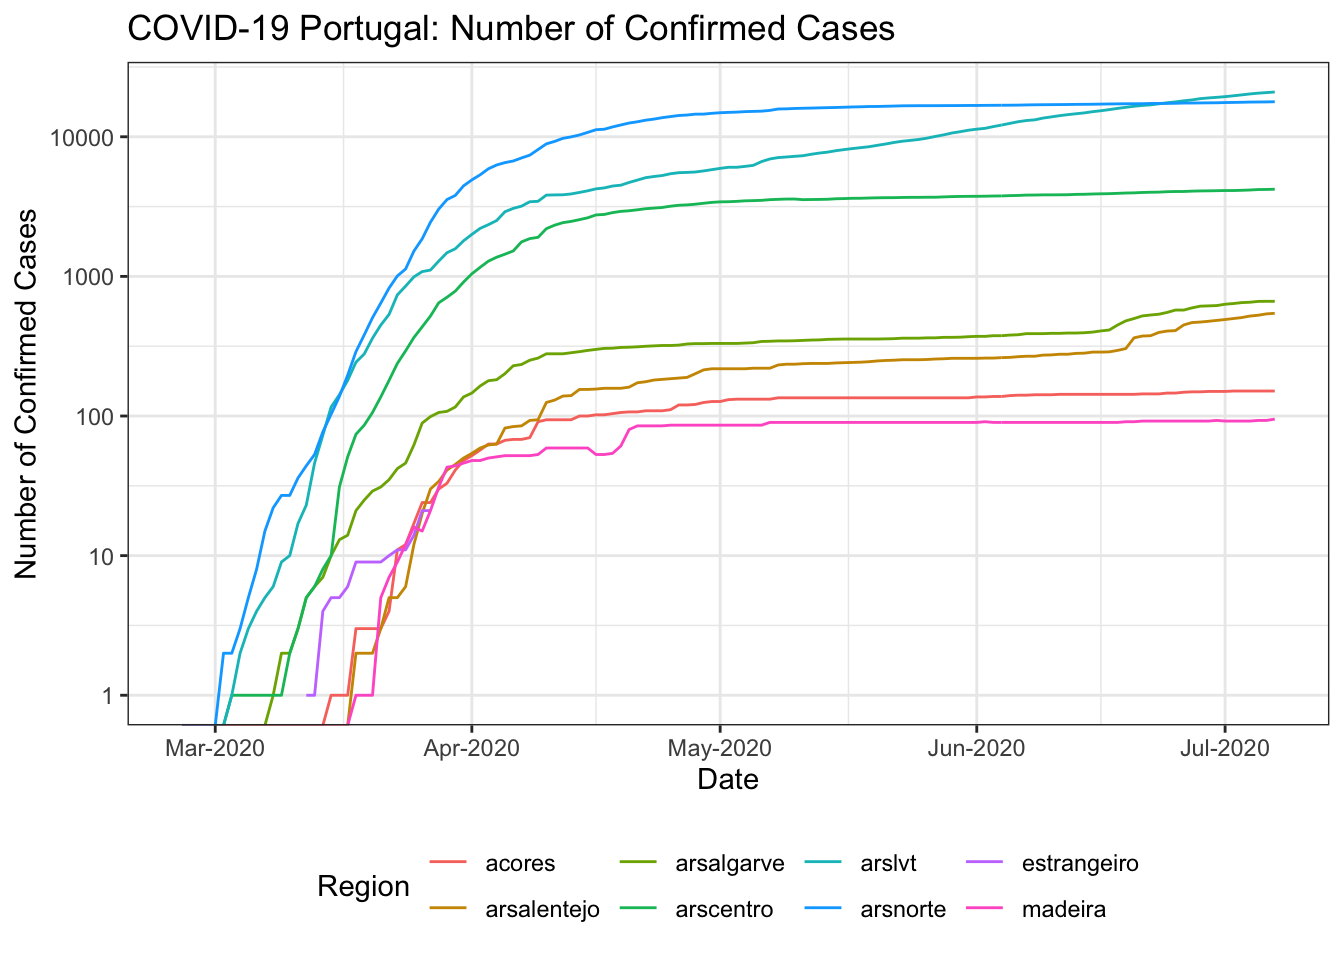
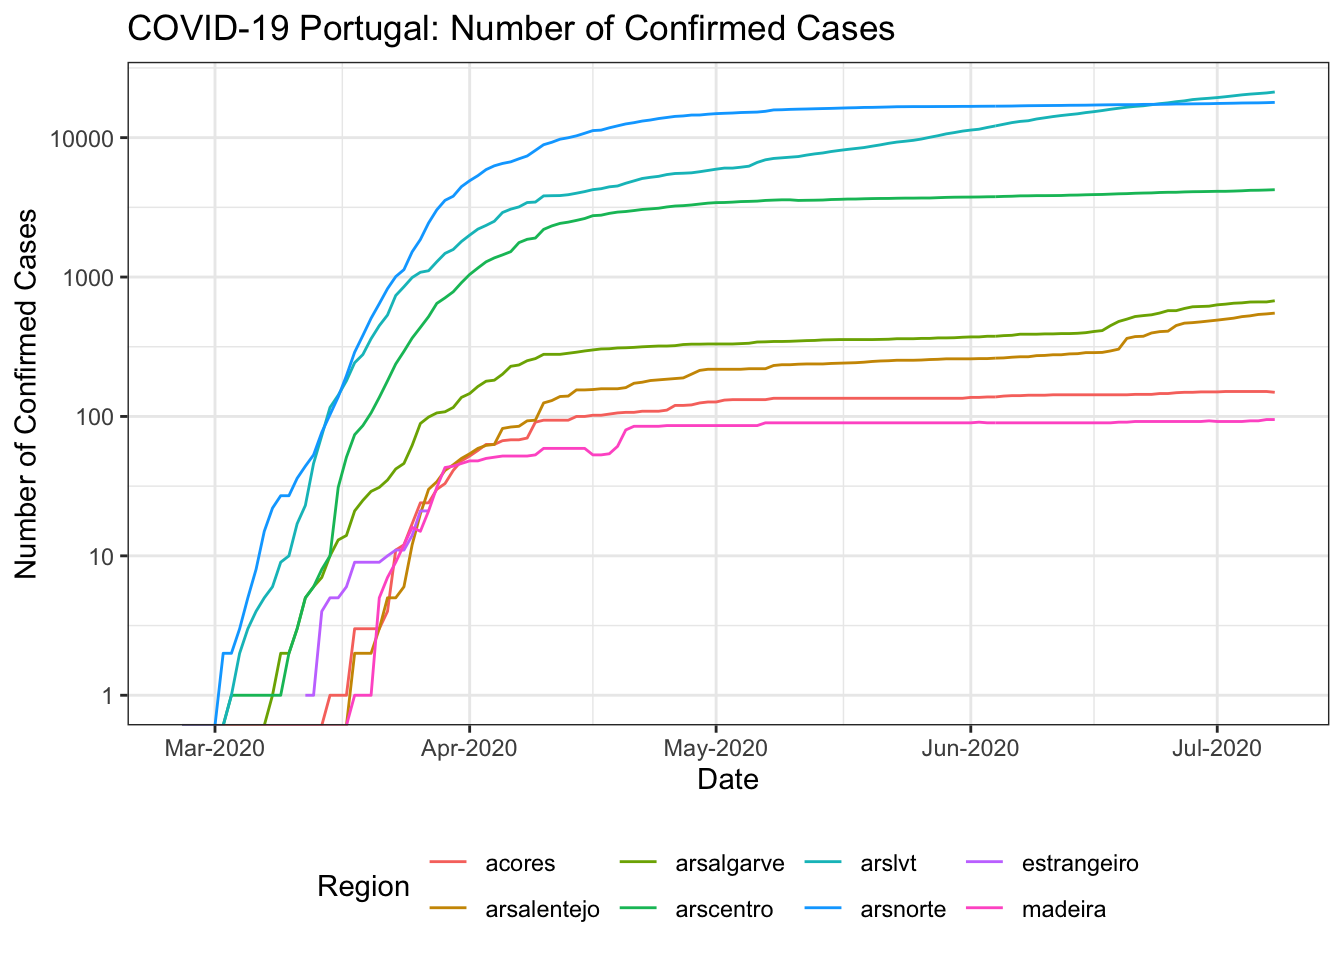
Data Update & Re-build README.Rmd

diff --git a/README.md b/README.md
@@ -1,9 +1,9 @@
 
 ## Daily Portuguese COVID-19 Data
 
-**Last updated: Wed 08 Jul 2020 (15:25:04 UTC \[+0000\])**
+**Last updated: Thu 09 Jul 2020 (03:26:10 UTC \[+0000\])**
 
-  - Data available from **26 Feb 2020** until **07 Jul 2020** (133
+  - Data available from **26 Feb 2020** until **08 Jul 2020** (134
     days).
 
 ### Download User Friendly Version
@@ -48,7 +48,7 @@ suppressPackageStartupMessages(library(here)) # library(here)
 # Read in data as a data.frame and data.table object.
 CV <- fread(here("data", "covid19pt_DSSG_Long.csv"))
 str(CV)
-## Classes 'data.table' and 'data.frame':   11172 obs. of  12 variables:
+## Classes 'data.table' and 'data.frame':   11256 obs. of  12 variables:
 ##  $ data       : chr  "2020-02-26" "2020-02-27" "2020-02-28" "2020-02-29" ...
 ##  $ origVars   : chr  "cadeias_transmissao" "cadeias_transmissao" "cadeias_transmissao" "cadeias_transmissao" ...
 ##  $ origType   : chr  "cadeias" "cadeias" "cadeias" "cadeias" ...
@@ -111,7 +111,7 @@ CV[origType=="confirmados" & ageGrp=="" & region!="Portugal"] %>%
     y = "Number of Confirmed Cases",
     colour = "Region")
 ## Warning: Transformation introduced infinite values in continuous y-axis
-## Warning: Removed 117 row(s) containing missing values (geom_path).
+## Warning: Removed 118 row(s) containing missing values (geom_path).
 ```
 
 <img src="README_figs/README-casesbyRegion-1.png" width="672" />
@@ -140,9 +140,9 @@ CV[dailyChange<0 & !(origType %in% c("vigilancia", "internados"))][
 ##   4: 2020-03-24 confirmados   confirmados_40_49_f   224          -2
 ##   5: 2020-03-19 confirmados   confirmados_60_69_f    35         -14
 ##  ---                                                               
-## 149: 2020-05-23      obitos      obitos_arscentro   230          -3
-## 150: 2020-07-03      obitos      obitos_arscentro   248          -1
-## 151: 2020-06-20      obitos              obitos_f   768          -1
-## 152: 2020-05-21 transmissao transmissao_importada   767          -3
-## 153: 2020-07-05 transmissao transmissao_importada   767      -40295
+## 150: 2020-05-23      obitos      obitos_arscentro   230          -3
+## 151: 2020-07-03      obitos      obitos_arscentro   248          -1
+## 152: 2020-06-20      obitos              obitos_f   768          -1
+## 153: 2020-05-21 transmissao transmissao_importada   767          -3
+## 154: 2020-07-05 transmissao transmissao_importada   767      -40295
 ```
